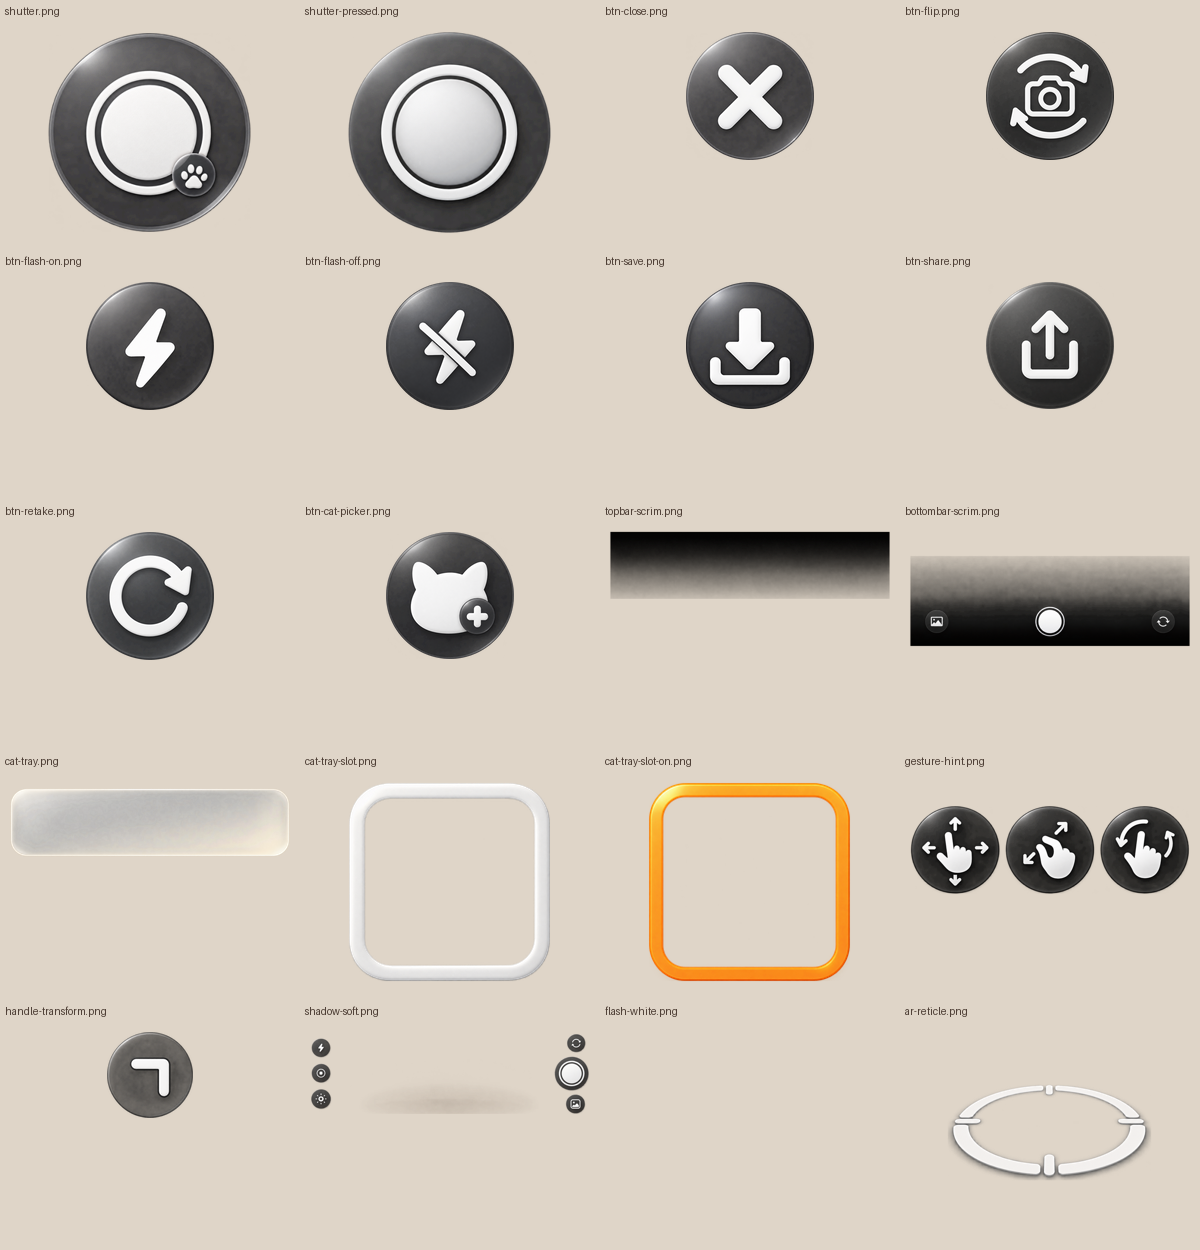
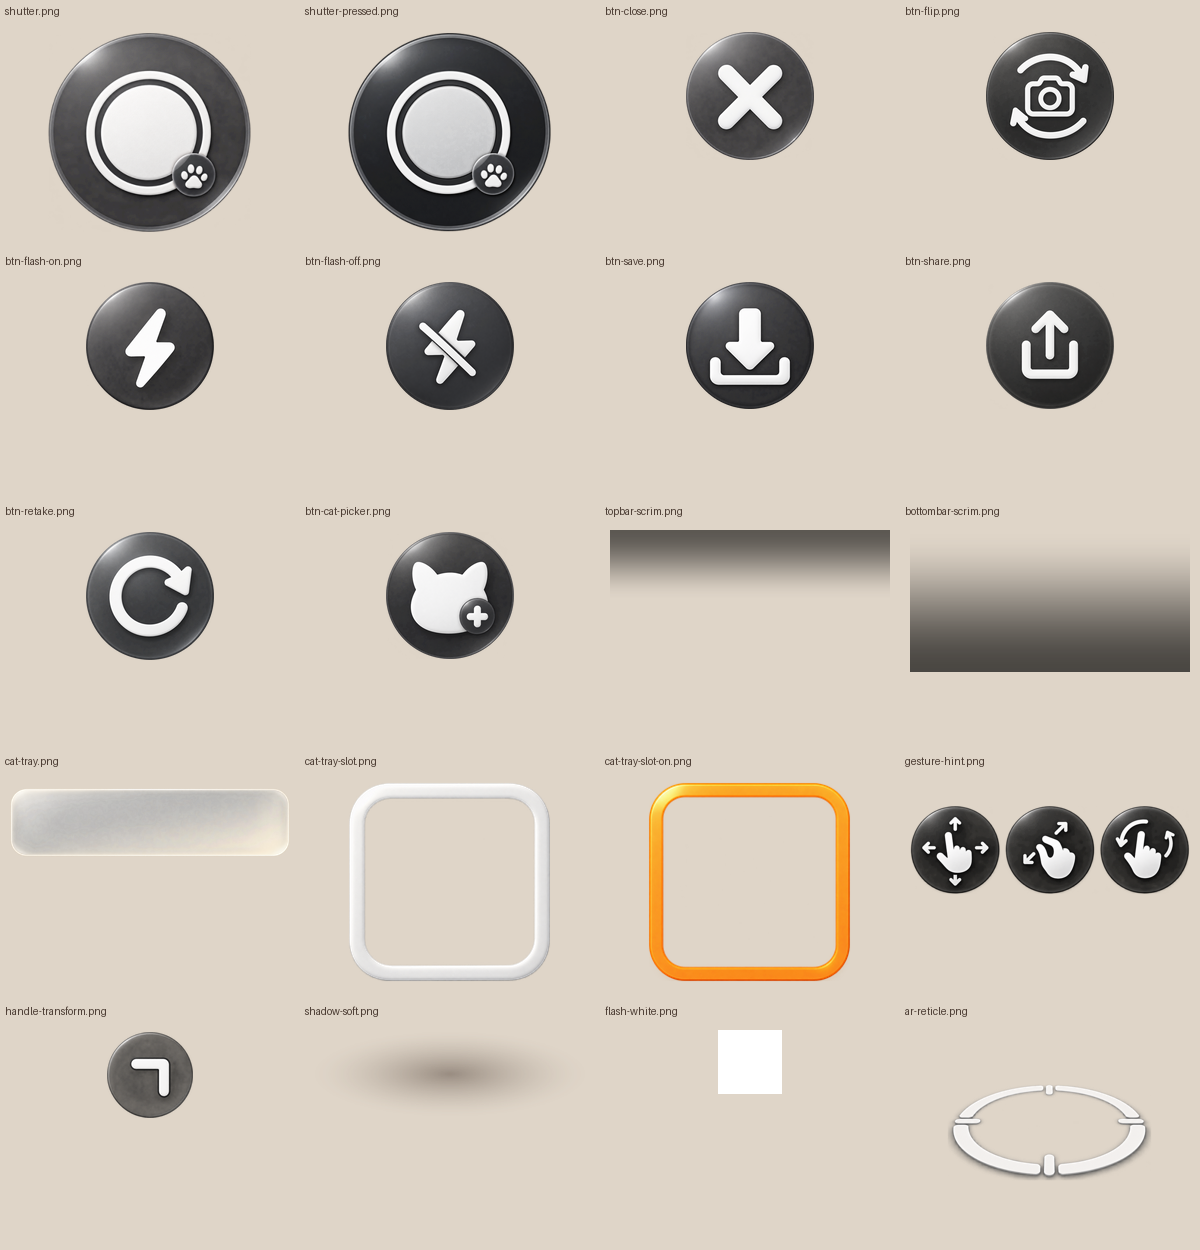
Complete ui assets: camera

diff --git a/app/assets/ui/provenance/prompts-camera.md b/app/assets/ui/provenance/prompts-camera.md
@@ -1,0 +1,212 @@
+# UI assets: camera
+
+Built-in image_gen; camera scrims and soft shadow retain the procedural corrections from commit e79fd55. References: docs/ui-reference/01-home.webp,02-zukan.webp,03-deai.webp,04-world.webp (style only, no crops).
+
+## camera/shutter.png
+
+Final: 270x270 PNG.
+
+Prompt: Create exactly ONE iOS camera overlay UI bitmap: White double circular shutter button with small paw, translucent dark center for contrast. Target 270x270 aspect 270:270. Cozy premium Nekomobby UI family, clean thick rounded silhouette, restrained paper texture only if appropriate, minimal bevel, upper-left light. White icons with charcoal semi-transparent circular plate and delicate contrast shadow readable on both light and dark camera footage. No actual cat or character, no flowers, no leaves, no extra motifs unless explicitly requested. NO TEXT OR LETTERS OR NUMERALS. For scrims output only the specified gradient rectangle, no objects. For white flash output solid white rectangle only. All edges fit without clipping, minimal margin. True alpha transparency, no matte no white fringe. Single component not a mockup.
+
+Processing: Trim alpha margin and proportionally fit exact canvas without stretching
+
+Source: C:\Users\User\.codex\generated_images\01a16dc8-84e9-7e73-953c-375657e785a2\exec-15ca493a-1ccc-4d33-bef8-4e42139439c0.png
+
+## camera/shutter-pressed.png
+
+Final: 270x270 PNG.
+
+Prompt: Edit only pressed state of this exact shutter button: preserve the small paw emblem, exact white double-circle geometry, overall shape and all positions. Make center disk slightly darker and sunken, shorten downward shadow. Do not remove paw or add anything. Transparent background. Final270x270.
+
+Processing: Trim alpha margin and proportionally fit exact canvas without stretching
+
+Source: C:\Users\User\.codex\generated_images\01a16dc8-84e9-7e73-953c-375657e785a2\exec-15d0f347-d98d-4b5d-ad61-ec6b8d6d9188.png
+
+Superseded attempt: C:\Users\User\.codex\generated_images\01a16dc8-84e9-7e73-953c-375657e785a2\exec-db3e35f9-0ef8-4d0b-8933-9c155cf09de9.png
+
+Prompt: Create exactly ONE iOS camera overlay UI bitmap: Same white double circular shutter depressed darker state. Target 270x270 aspect 270:270. Cozy premium Nekomobby UI family, clean thick rounded silhouette, restrained paper texture only if appropriate, minimal bevel, upper-left light. White icons with charcoal semi-transparent circular plate and delicate contrast shadow readable on both light and dark camera footage. No actual cat or character, no flowers, no leaves, no extra motifs unless explicitly requested. NO TEXT OR LETTERS OR NUMERALS. For scrims output only the specified gradient rectangle, no objects. For white flash output solid white rectangle only. All edges fit without clipping, minimal margin. True alpha transparency, no matte no white fringe. Single component not a mockup.
+
+## camera/btn-close.png
+
+Final: 132x132 PNG.
+
+Prompt: Create exactly ONE iOS camera overlay UI bitmap: White X icon on translucent charcoal circular plate. Target 132x132 aspect 132:132. Cozy premium Nekomobby UI family, clean thick rounded silhouette, restrained paper texture only if appropriate, minimal bevel, upper-left light. White icons with charcoal semi-transparent circular plate and delicate contrast shadow readable on both light and dark camera footage. No actual cat or character, no flowers, no leaves, no extra motifs unless explicitly requested. NO TEXT OR LETTERS OR NUMERALS. For scrims output only the specified gradient rectangle, no objects. For white flash output solid white rectangle only. All edges fit without clipping, minimal margin. True alpha transparency, no matte no white fringe. Single component not a mockup.
+
+Processing: Trim alpha margin and proportionally fit exact canvas without stretching
+
+Source: C:\Users\User\.codex\generated_images\01a16dc8-84e9-7e73-953c-375657e785a2\exec-e1b5d3c4-1d39-4e1a-93de-3d8058a5e4f4.png
+
+## camera/btn-flip.png
+
+Final: 132x132 PNG.
+
+Prompt: Create exactly ONE iOS camera overlay UI bitmap: White camera rotate arrows on translucent charcoal circle. Target 132x132 aspect 132:132. Cozy premium Nekomobby UI family, clean thick rounded silhouette, restrained paper texture only if appropriate, minimal bevel, upper-left light. White icons with charcoal semi-transparent circular plate and delicate contrast shadow readable on both light and dark camera footage. No actual cat or character, no flowers, no leaves, no extra motifs unless explicitly requested. NO TEXT OR LETTERS OR NUMERALS. For scrims output only the specified gradient rectangle, no objects. For white flash output solid white rectangle only. All edges fit without clipping, minimal margin. True alpha transparency, no matte no white fringe. Single component not a mockup.
+
+Processing: Trim alpha margin and proportionally fit exact canvas without stretching
+
+Source: C:\Users\User\.codex\generated_images\01a16dc8-84e9-7e73-953c-375657e785a2\exec-c0125e54-69e9-411a-bc02-42e49eacee58.png
+
+## camera/btn-flash-on.png
+
+Final: 132x132 PNG.
+
+Prompt: Create exactly ONE iOS camera overlay UI bitmap: White lightning bolt on translucent charcoal circle. Target 132x132 aspect 132:132. Cozy premium Nekomobby UI family, clean thick rounded silhouette, restrained paper texture only if appropriate, minimal bevel, upper-left light. White icons with charcoal semi-transparent circular plate and delicate contrast shadow readable on both light and dark camera footage. No actual cat or character, no flowers, no leaves, no extra motifs unless explicitly requested. NO TEXT OR LETTERS OR NUMERALS. For scrims output only the specified gradient rectangle, no objects. For white flash output solid white rectangle only. All edges fit without clipping, minimal margin. True alpha transparency, no matte no white fringe. Single component not a mockup.
+
+Processing: Trim alpha margin and proportionally fit exact canvas without stretching
+
+Source: C:\Users\User\.codex\generated_images\01a16dc8-84e9-7e73-953c-375657e785a2\exec-d8a52fe3-e99a-414d-ab87-8faaff8942d1.png
+
+## camera/btn-flash-off.png
+
+Final: 132x132 PNG.
+
+Prompt: Create exactly ONE iOS camera overlay UI bitmap: Same lightning bolt with diagonal slash on translucent charcoal circle. Target 132x132 aspect 132:132. Cozy premium Nekomobby UI family, clean thick rounded silhouette, restrained paper texture only if appropriate, minimal bevel, upper-left light. White icons with charcoal semi-transparent circular plate and delicate contrast shadow readable on both light and dark camera footage. No actual cat or character, no flowers, no leaves, no extra motifs unless explicitly requested. NO TEXT OR LETTERS OR NUMERALS. For scrims output only the specified gradient rectangle, no objects. For white flash output solid white rectangle only. All edges fit without clipping, minimal margin. True alpha transparency, no matte no white fringe. Single component not a mockup.
+
+Processing: Trim alpha margin and proportionally fit exact canvas without stretching
+
+Source: C:\Users\User\.codex\generated_images\01a16dc8-84e9-7e73-953c-375657e785a2\exec-9e303000-42a7-474c-ab14-bc13fd3eaaaf.png
+
+## camera/btn-save.png
+
+Final: 132x132 PNG.
+
+Prompt: Create exactly ONE iOS camera overlay UI bitmap: White downward arrow into tray on translucent charcoal circle. Target 132x132 aspect 132:132. Cozy premium Nekomobby UI family, clean thick rounded silhouette, restrained paper texture only if appropriate, minimal bevel, upper-left light. White icons with charcoal semi-transparent circular plate and delicate contrast shadow readable on both light and dark camera footage. No actual cat or character, no flowers, no leaves, no extra motifs unless explicitly requested. NO TEXT OR LETTERS OR NUMERALS. For scrims output only the specified gradient rectangle, no objects. For white flash output solid white rectangle only. All edges fit without clipping, minimal margin. True alpha transparency, no matte no white fringe. Single component not a mockup.
+
+Processing: Trim alpha margin and proportionally fit exact canvas without stretching
+
+Source: C:\Users\User\.codex\generated_images\01a16dc8-84e9-7e73-953c-375657e785a2\exec-2796d086-0d1c-4e9a-8aa4-3720358b7429.png
+
+## camera/btn-share.png
+
+Final: 132x132 PNG.
+
+Prompt: Create exactly ONE iOS camera overlay UI bitmap: White upward arrow from square on translucent charcoal circle. Target 132x132 aspect 132:132. Cozy premium Nekomobby UI family, clean thick rounded silhouette, restrained paper texture only if appropriate, minimal bevel, upper-left light. White icons with charcoal semi-transparent circular plate and delicate contrast shadow readable on both light and dark camera footage. No actual cat or character, no flowers, no leaves, no extra motifs unless explicitly requested. NO TEXT OR LETTERS OR NUMERALS. For scrims output only the specified gradient rectangle, no objects. For white flash output solid white rectangle only. All edges fit without clipping, minimal margin. True alpha transparency, no matte no white fringe. Single component not a mockup.
+
+Processing: Trim alpha margin and proportionally fit exact canvas without stretching
+
+Source: C:\Users\User\.codex\generated_images\01a16dc8-84e9-7e73-953c-375657e785a2\exec-eb54addb-f65c-45ff-852b-0b8fce0054d7.png
+
+## camera/btn-retake.png
+
+Final: 132x132 PNG.
+
+Prompt: Create exactly ONE iOS camera overlay UI bitmap: White circular arrow on translucent charcoal circle. Target 132x132 aspect 132:132. Cozy premium Nekomobby UI family, clean thick rounded silhouette, restrained paper texture only if appropriate, minimal bevel, upper-left light. White icons with charcoal semi-transparent circular plate and delicate contrast shadow readable on both light and dark camera footage. No actual cat or character, no flowers, no leaves, no extra motifs unless explicitly requested. NO TEXT OR LETTERS OR NUMERALS. For scrims output only the specified gradient rectangle, no objects. For white flash output solid white rectangle only. All edges fit without clipping, minimal margin. True alpha transparency, no matte no white fringe. Single component not a mockup.
+
+Processing: Trim alpha margin and proportionally fit exact canvas without stretching
+
+Source: C:\Users\User\.codex\generated_images\01a16dc8-84e9-7e73-953c-375657e785a2\exec-ad541a50-1dfb-4e8c-81cf-afff96048108.png
+
+## camera/btn-cat-picker.png
+
+Final: 132x132 PNG.
+
+Prompt: Create exactly ONE iOS camera overlay UI bitmap: White cat head silhouette with small plus on translucent charcoal circle. Target 132x132 aspect 132:132. Cozy premium Nekomobby UI family, clean thick rounded silhouette, restrained paper texture only if appropriate, minimal bevel, upper-left light. White icons with charcoal semi-transparent circular plate and delicate contrast shadow readable on both light and dark camera footage. No actual cat or character, no flowers, no leaves, no extra motifs unless explicitly requested. NO TEXT OR LETTERS OR NUMERALS. For scrims output only the specified gradient rectangle, no objects. For white flash output solid white rectangle only. All edges fit without clipping, minimal margin. True alpha transparency, no matte no white fringe. Single component not a mockup.
+
+Processing: Trim alpha margin and proportionally fit exact canvas without stretching
+
+Source: C:\Users\User\.codex\generated_images\01a16dc8-84e9-7e73-953c-375657e785a2\exec-15c60ac4-44bd-4f64-a845-995c1241e14e.png
+
+## camera/topbar-scrim.png
+
+Final: 1179x300 PNG.
+
+Prompt: Vertical black alpha smoothstep, top alpha150 to bottom0; 1179x300.
+
+Processing: Vertical black alpha smoothstep, top alpha150 to bottom0; 1179x300.
+
+Source: C:\Users\User\.codex\generated_images\01a16dc8-84e9-7e73-953c-375657e785a2\exec-4d640704-ba3f-4fd0-bb60-fc9d41d3a70d.png
+
+## camera/bottombar-scrim.png
+
+Final: 1179x600 PNG.
+
+Prompt: Vertical black alpha smoothstep, top alpha0 to bottom170; 1179x600. Black bottom fades to transparent top, no icons.
+
+Processing: Vertical black alpha smoothstep, top alpha0 to bottom170; 1179x600. Black bottom fades to transparent top, no icons.
+
+Source: C:\Users\User\.codex\generated_images\01a16dc8-84e9-7e73-953c-375657e785a2\exec-e0936788-2640-490e-b520-dea2ca6622c7.png
+
+## camera/cat-tray.png
+
+Final: 1179x360 PNG.
+
+Prompt: Create exactly ONE iOS camera overlay UI bitmap: Empty translucent frosted glass cream rounded rectangle horizontal9slice. Target 1179x360 aspect 1179:360. Cozy premium Nekomobby UI family, clean thick rounded silhouette, restrained paper texture only if appropriate, minimal bevel, upper-left light. White icons with charcoal semi-transparent circular plate and delicate contrast shadow readable on both light and dark camera footage. No actual cat or character, no flowers, no leaves, no extra motifs unless explicitly requested. NO TEXT OR LETTERS OR NUMERALS. For scrims output only the specified gradient rectangle, no objects. For white flash output solid white rectangle only. All edges fit without clipping, minimal margin. True alpha transparency, no matte no white fringe. Single component not a mockup.
+
+Processing: Trim alpha margin and proportionally fit exact canvas without stretching
+
+Source: C:\Users\User\.codex\generated_images\01a16dc8-84e9-7e73-953c-375657e785a2\exec-c5d924c8-ab5c-48c2-b487-94331de62cb1.png
+
+## camera/cat-tray-slot.png
+
+Final: 210x210 PNG.
+
+Prompt: Create exactly ONE iOS camera overlay UI bitmap: Empty hollow rounded square thumbnail frame clear center. Target 210x210 aspect 210:210. Cozy premium Nekomobby UI family, clean thick rounded silhouette, restrained paper texture only if appropriate, minimal bevel, upper-left light. White icons with charcoal semi-transparent circular plate and delicate contrast shadow readable on both light and dark camera footage. No actual cat or character, no flowers, no leaves, no extra motifs unless explicitly requested. NO TEXT OR LETTERS OR NUMERALS. For scrims output only the specified gradient rectangle, no objects. For white flash output solid white rectangle only. All edges fit without clipping, minimal margin. True alpha transparency, no matte no white fringe. Single component not a mockup.
+
+Processing: Trim alpha margin and proportionally fit exact canvas without stretching
+
+Source: C:\Users\User\.codex\generated_images\01a16dc8-84e9-7e73-953c-375657e785a2\exec-dcce16f8-3bbf-4102-b2a3-41cf3fa16409.png
+
+## camera/cat-tray-slot-on.png
+
+Final: 210x210 PNG.
+
+Prompt: Create exactly ONE iOS camera overlay UI bitmap: Same hollow rounded square thumbnail frame orange selected border clear center. Target 210x210 aspect 210:210. Cozy premium Nekomobby UI family, clean thick rounded silhouette, restrained paper texture only if appropriate, minimal bevel, upper-left light. White icons with charcoal semi-transparent circular plate and delicate contrast shadow readable on both light and dark camera footage. No actual cat or character, no flowers, no leaves, no extra motifs unless explicitly requested. NO TEXT OR LETTERS OR NUMERALS. For scrims output only the specified gradient rectangle, no objects. For white flash output solid white rectangle only. All edges fit without clipping, minimal margin. True alpha transparency, no matte no white fringe. Single component not a mockup.
+
+Processing: Trim alpha margin and proportionally fit exact canvas without stretching
+
+Source: C:\Users\User\.codex\generated_images\01a16dc8-84e9-7e73-953c-375657e785a2\exec-15022770-b434-43ae-a1fd-e5679e40ca4a.png
+
+## camera/gesture-hint.png
+
+Final: 600x300 PNG.
+
+Prompt: Create exactly ONE iOS camera overlay UI bitmap: Three simple white hand gesture diagrams: drag pinch rotate, no words, transparent. Target 600x300 aspect 600:300. Cozy premium Nekomobby UI family, clean thick rounded silhouette, restrained paper texture only if appropriate, minimal bevel, upper-left light. White icons with charcoal semi-transparent circular plate and delicate contrast shadow readable on both light and dark camera footage. No actual cat or character, no flowers, no leaves, no extra motifs unless explicitly requested. NO TEXT OR LETTERS OR NUMERALS. For scrims output only the specified gradient rectangle, no objects. For white flash output solid white rectangle only. All edges fit without clipping, minimal margin. True alpha transparency, no matte no white fringe. Single component not a mockup.
+
+Processing: Trim alpha margin and proportionally fit exact canvas without stretching
+
+Source: C:\Users\User\.codex\generated_images\01a16dc8-84e9-7e73-953c-375657e785a2\exec-b1cc1ca7-60c8-46d3-a73b-b4c65cdb3baf.png
+
+## camera/handle-transform.png
+
+Final: 90x90 PNG.
+
+Prompt: Create exactly ONE iOS camera overlay UI bitmap: Small white rounded corner resize handle with charcoal outline. Target 90x90 aspect 90:90. Cozy premium Nekomobby UI family, clean thick rounded silhouette, restrained paper texture only if appropriate, minimal bevel, upper-left light. White icons with charcoal semi-transparent circular plate and delicate contrast shadow readable on both light and dark camera footage. No actual cat or character, no flowers, no leaves, no extra motifs unless explicitly requested. NO TEXT OR LETTERS OR NUMERALS. For scrims output only the specified gradient rectangle, no objects. For white flash output solid white rectangle only. All edges fit without clipping, minimal margin. True alpha transparency, no matte no white fringe. Single component not a mockup.
+
+Processing: Trim alpha margin and proportionally fit exact canvas without stretching
+
+Source: C:\Users\User\.codex\generated_images\01a16dc8-84e9-7e73-953c-375657e785a2\exec-13f6f38d-fae0-40bb-b0b7-58d0d4afa403.png
+
+## camera/shadow-soft.png
+
+Final: 480x150 PNG.
+
+Prompt: Single warm brown radial oval shadow, max alpha120, transparent outside ellipse; 480x150. No icons.
+
+Processing: Single warm brown radial oval shadow, max alpha120, transparent outside ellipse; 480x150. No icons.
+
+Source: C:\Users\User\.codex\generated_images\01a16dc8-84e9-7e73-953c-375657e785a2\exec-3e49b6f7-b355-4ee2-a27a-900babefd8bb.png
+
+## camera/flash-white.png
+
+Final: 64x64 PNG.
+
+Prompt: Pure uniform WHITE square. Solid RGB255255255 at every pixel. No object, no texture, no shadow, no gradient, no border, no margin, no icons, no transparency. This is a blank white raster swatch. Final64x64.
+
+Processing: Generated white swatch center pixel resized uniformly to64x64
+
+Source: C:\Users\User\.codex\generated_images\01a16dc8-84e9-7e73-953c-375657e785a2\exec-90714bd4-c58b-4cb5-be65-1d75ec839cf5.png
+
+Superseded attempt: C:\Users\User\.codex\generated_images\01a16dc8-84e9-7e73-953c-375657e785a2\exec-6c6ad61e-51ac-4ee5-ad7b-f0084403044c.png
+
+Prompt: Create exactly ONE iOS camera overlay UI bitmap: Pure solid white square fully opaque, no border shadow texture or transparency. Target 64x64 aspect 64:64. Cozy premium Nekomobby UI family, clean thick rounded silhouette, restrained paper texture only if appropriate, minimal bevel, upper-left light. White icons with charcoal semi-transparent circular plate and delicate contrast shadow readable on both light and dark camera footage. No actual cat or character, no flowers, no leaves, no extra motifs unless explicitly requested. NO TEXT OR LETTERS OR NUMERALS. For scrims output only the specified gradient rectangle, no objects. For white flash output solid white rectangle only. All edges fit without clipping, minimal margin. True alpha transparency, no matte no white fringe. Single component not a mockup.
+
+## camera/ar-reticle.png
+
+Final: 480x480 PNG.
+
+Prompt: Create exactly ONE iOS camera overlay UI bitmap: White perspective floor placement target ring transparent center. Target 480x480 aspect 480:480. Cozy premium Nekomobby UI family, clean thick rounded silhouette, restrained paper texture only if appropriate, minimal bevel, upper-left light. White icons with charcoal semi-transparent circular plate and delicate contrast shadow readable on both light and dark camera footage. No actual cat or character, no flowers, no leaves, no extra motifs unless explicitly requested. NO TEXT OR LETTERS OR NUMERALS. For scrims output only the specified gradient rectangle, no objects. For white flash output solid white rectangle only. All edges fit without clipping, minimal margin. True alpha transparency, no matte no white fringe. Single component not a mockup.
+
+Processing: Trim alpha margin and proportionally fit exact canvas without stretching
+
+Source: C:\Users\User\.codex\generated_images\01a16dc8-84e9-7e73-953c-375657e785a2\exec-20f867e8-e952-46b3-9964-0cd0345211c4.png
+
